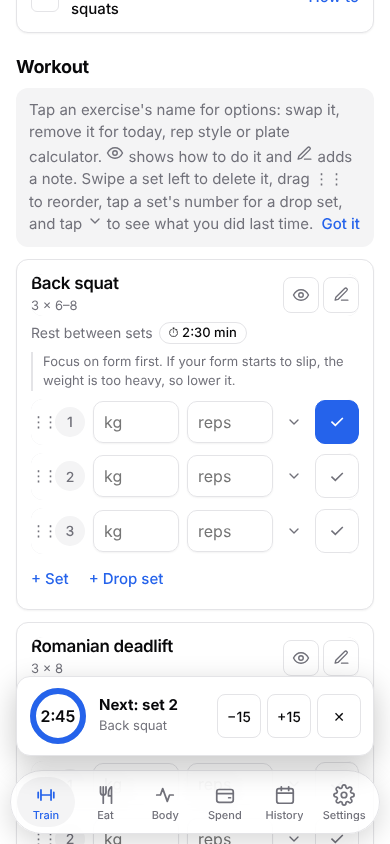
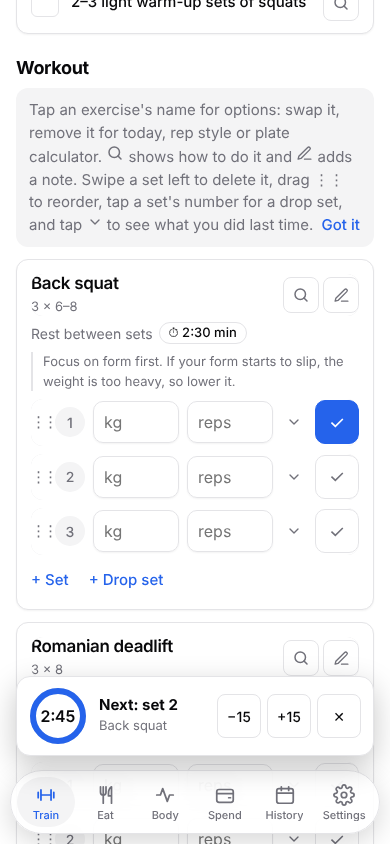
Magnifying glass for all how-to buttons; no how-to for walking
Claude-Session: https://claude.ai/code/session_01PPQnAJQwZUgLDScDXN9x8H

diff --git a/index.html b/index.html
@@ -225,7 +225,7 @@ h1,h2,h3{font-family:inherit;margin:0;line-height:1.05}
 .rtick[aria-pressed="true"]{background:var(--green);border-color:var(--green);color:#fff}
 .rname{flex:1;min-width:0;font-weight:600}
 .rname small{display:block;font-weight:400;color:var(--muted);font-size:14px}
-.rhow{flex:none;padding:6px 0}
+.rhow{flex:none}
 .motions.two{display:grid;grid-template-columns:1fr 1fr;gap:8px}
 .motions figure{margin:0}
 .motions figcaption{text-align:center;font-size:12px;color:var(--muted)}
@@ -1391,14 +1391,15 @@ function routineHtml(kind,items,done){
   let h="";
   for(const g of regions){
     h+=`<p class="lbl rhead">${esc(g.r)}</p><div class="card routine">`;
-    h+=g.list.map(([n,i])=>{const I=sinfo(n),key=kind+i,open=openHow.has(key),has=I.c.length||I.m.length;
-      return `<div class="ritem"><div class="rrow"><button class="rtick" data-act="${kind==="w"?"warm":"stretch"}" data-i="${i}" aria-pressed="${!!done[i]}" aria-label="Mark ${esc(n)} done">✓</button><span class="rname">${esc(n)}${I.hold?`<small>Hold ${esc(I.hold)}</small>`:""}</span>${holdSecs(I.hold)?`<button type="button" class="holdbtn" data-act="hold" data-n="${esc(n)}" aria-label="Start a ${holdSecs(I.hold)} second timer for ${esc(n)}">▶ ${holdSecs(I.hold)} s</button>`:""}${has?`<button class="linkbtn rhow" data-act="rhow" data-k="${key}" aria-expanded="${open}">${open?"Hide":"How to"}</button>`:""}</div>${open?`<div class="howto">${I.m.length?bodyMap(I.m,I.s):""}${I.c.length?`<ol>${I.c.map(c=>`<li>${esc(c)}</li>`).join("")}</ol>`:""}</div>`:""}</div>`;}).join("");
+    h+=g.list.map(([n,i])=>{const I=sinfo(n),key=kind+i,open=openHow.has(key),has=(I.c.length||I.m.length)&&!/walk|light cardio/i.test(n);
+      return `<div class="ritem"><div class="rrow"><button class="rtick" data-act="${kind==="w"?"warm":"stretch"}" data-i="${i}" aria-pressed="${!!done[i]}" aria-label="Mark ${esc(n)} done">✓</button><span class="rname">${esc(n)}${I.hold?`<small>Hold ${esc(I.hold)}</small>`:""}</span>${holdSecs(I.hold)?`<button type="button" class="holdbtn" data-act="hold" data-n="${esc(n)}" aria-label="Start a ${holdSecs(I.hold)} second timer for ${esc(n)}">▶ ${holdSecs(I.hold)} s</button>`:""}${has?`<button class="icob rhow" data-act="rhow" data-k="${key}" aria-expanded="${open}"${open?' aria-pressed="true"':""} aria-label="${open?"Hide":"Show"} how to do ${esc(n)}">${IC.search}</button>`:""}</div>${open?`<div class="howto">${I.m.length?bodyMap(I.m,I.s):""}${I.c.length?`<ol>${I.c.map(c=>`<li>${esc(c)}</li>`).join("")}</ol>`:""}</div>`:""}</div>`;}).join("");
     h+=`</div>`;
   }
   return h;
 }
 // ---------- Exercise helpers: rep style, starting weights, records, keywords ----------
 const IC={
+  search:'<svg viewBox="0 0 24 24" width="18" height="18" fill="none" stroke="currentColor" stroke-width="2" stroke-linecap="round" stroke-linejoin="round" aria-hidden="true"><circle cx="11" cy="11" r="7"/><path d="m20 20-4-4"/></svg>',
   eye:'<svg viewBox="0 0 24 24" width="18" height="18" fill="none" stroke="currentColor" stroke-width="1.9" stroke-linecap="round" stroke-linejoin="round" aria-hidden="true"><path d="M2 12s3.5-7 10-7 10 7 10 7-3.5 7-10 7S2 12 2 12z"/><circle cx="12" cy="12" r="3"/></svg>',
   pen:'<svg viewBox="0 0 24 24" width="17" height="17" fill="none" stroke="currentColor" stroke-width="1.9" stroke-linecap="round" stroke-linejoin="round" aria-hidden="true"><path d="M12 20h9"/><path d="M16.5 3.5a2.1 2.1 0 0 1 3 3L7 19l-4 1 1-4z"/></svg>',
   chev:'<svg viewBox="0 0 24 24" width="16" height="16" fill="none" stroke="currentColor" stroke-width="2" stroke-linecap="round" stroke-linejoin="round" aria-hidden="true"><path d="m6 9 6 6 6-6"/></svg>',
@@ -1466,7 +1467,7 @@ function motionBlock(id){
 function headerHtml(e,ctx,tag){
   const [id,name,sets,target,flag,drop]=e;
   const st=repStyle(id),tg=styledTarget(e),open=openHow.has(id),hasNote=!!(store.settings.notes||{})[id];
-  let h=`<div class="swr" data-sw="ex">${swbg("Swap","Remove today")}<header class="sw exhead">${tag?`<span class="sstag">${tag}</span>`:""}<div class="exttl" data-act="exmenu" role="button" tabindex="0" aria-label="Options for ${esc(name)}"><h3>${esc(name)}</h3><span class="target">${sets} × ${esc(tg)}${drop?" + drop":""}${st&&canStyle(e)?` · ${STYLES[st][0]}`:""}</span></div><span class="exicons"><button type="button" class="icob" data-act="howto" aria-expanded="${open}" aria-label="${open?"Hide":"Show"} how to do ${esc(name)}"${open?' aria-pressed="true"':""}>${IC.eye}</button><button type="button" class="icob${hasNote?" has":""}" data-act="note" aria-label="${hasNote?"Edit your note":"Add a note"} for ${esc(name)}">${IC.pen}</button></span></header></div>`;
+  let h=`<div class="swr" data-sw="ex">${swbg("Swap","Remove today")}<header class="sw exhead">${tag?`<span class="sstag">${tag}</span>`:""}<div class="exttl" data-act="exmenu" role="button" tabindex="0" aria-label="Options for ${esc(name)}"><h3>${esc(name)}</h3><span class="target">${sets} × ${esc(tg)}${drop?" + drop":""}${st&&canStyle(e)?` · ${STYLES[st][0]}`:""}</span></div><span class="exicons"><button type="button" class="icob" data-act="howto" aria-expanded="${open}" aria-label="${open?"Hide":"Show"} how to do ${esc(name)}"${open?' aria-pressed="true"':""}>${IC.search}</button><button type="button" class="icob${hasNote?" has":""}" data-act="note" aria-label="${hasNote?"Edit your note":"Add a note"} for ${esc(name)}">${IC.pen}</button></span></header></div>`;
   if(!ctx.planIds.has(id))h+=`<p class="restline">Logged this day, but no longer in this workout.</p>`;
   const note=(store.settings.notes||{})[id];if(note)h+=`<p class="restline"><b>Note:</b> ${esc(note)}</p>`;
   return h;
@@ -1516,7 +1517,7 @@ function secWarm({k,p,P,v2,day},before){
 function secWork({k,p,P,v2,day}){
   const todayEx=dayExercises(k,p),planIds=new Set(todayEx.map(e=>e[0])),hiddenIds=hiddenExIds(day);let h="";
   if(todayEx.length)h+=`<h2 class="sec-title">Workout</h2>`;
-  if(todayEx.length&&!store.settings.tipCard)h+=`<p class="note tip">Tap an exercise's name for options: swap it, remove it for today, rep style or plate calculator. ${IC.eye} shows how to do it and ${IC.pen} adds a note. Swipe a set left to delete it, drag ⋮⋮ to reorder, tap a set's number for a drop set, and tap ${IC.chev} to see what you did last time. <button class="linkbtn" data-act="tipok2">Got it</button></p>`;
+  if(todayEx.length&&!store.settings.tipCard)h+=`<p class="note tip">Tap an exercise's name for options: swap it, remove it for today, rep style or plate calculator. ${IC.search} shows how to do it and ${IC.pen} adds a note. Swipe a set left to delete it, drag ⋮⋮ to reorder, tap a set's number for a drop set, and tap ${IC.chev} to see what you did last time. <button class="linkbtn" data-act="tipok2">Got it</button></p>`;
   else if(!todayEx.length&&p!=="rest"&&p!=="run"&&v2)h+=`<h2 class="sec-title">Workout</h2><p class="note">No exercises in this workout yet. Tap <b>Edit</b> above to add some.</p>`;
   const extraEx=Object.keys(day.sets||{}).filter(id=>!planIds.has(id)&&!hiddenIds.has(id)&&(day.sets[id]||[]).some(r=>r.d||String(r.r).trim()||String(r.w).trim())).map(libArr);
   const ctx={k,p,day,v2,planIds},list=todayEx.concat(extraEx);
@@ -2771,9 +2772,9 @@ $("panel").addEventListener("click",e=>{if(tab!=="settings")return;const b=e.tar
 // Major.Minor: a new major number for a redesign, a new minor number for each update.
 const APP_VERSION="2.5";
 const CHANGELOG=[
-  {v:"2.5",d:"9 October 2026",t:"Brick logo is back",items:["Back to the logo with two capital B's built from toy bricks, red in front of blue"]},
+  {v:"2.5",d:"9 October 2026",t:"Brick logo is back",items:["Back to the logo with two capital B's built from toy bricks, red in front of blue","The logo in the app has no background","How-to buttons are now a magnifying glass everywhere, including warm-ups and stretches","No more how-to for walking"]},
   {v:"2.4",d:"9 October 2026",t:"Body tab, recipes and help",items:["Progress chart with each weigh-in and a 7-day average. Tap it to see the numbers","Calories burned today and since you started, shown as a range, compared with body fat and food","Your real maintenance, worked out from your weight trend and the food you log","Sets per muscle this week, with the 10–20 set range marked","Strength chart showing your estimated one-rep max over time","Measurements, progress photos (website only, saved on your phone) and dated notes","Steps field removed from the Body tab","Recipes with ingredients and steps, and Log 1 serving today. Creamy garlic herb Cajun chicken is built in","Help rewritten as 21 chapters: using the app and training basics","New logo: a barbell with two capital B's as the plates","This change log"]},
-  {v:"2.3",d:"9 October 2026",t:"Train tab rework",items:["Edit button under the week: reorder or hide page sections, your own warm-ups and stretches, exercises and schedule","Tap an exercise's name for its menu. The eye shows how to do it and the pen adds a note","⌄ on every set shows what you did last time and your best","Rep styles per exercise: Light, Medium or Heavy, with matching reps and rest","Suggested starting weights and a form reminder for New and Some experience","Swap list grouped by muscle, same muscle group first, with nothing cut off","57 more exercises, including calisthenics with Move up progressions","Tap-to-explain keywords like drop set and superset","New record alerts, a workout summary and a plate calculator"]},
+  {v:"2.3",d:"9 October 2026",t:"Train tab rework",items:["Edit button under the week: reorder or hide page sections, your own warm-ups and stretches, exercises and schedule","Tap an exercise's name for its menu. The magnifying glass shows how to do it and the pen adds a note","⌄ on every set shows what you did last time and your best","Rep styles per exercise: Light, Medium or Heavy, with matching reps and rest","Suggested starting weights and a form reminder for New and Some experience","Swap list grouped by muscle, same muscle group first, with nothing cut off","57 more exercises, including calisthenics with Move up progressions","Tap-to-explain keywords like drop set and superset","New record alerts, a workout summary and a plate calculator"]},
   {v:"2.2",d:"9 October 2026",t:"New setup and splits",items:["Setup asks about your gym experience: New, Some or Experienced","Weekly split screen with templates, any day changeable, custom days and Dynamic days you pick on the day","Choose whether workouts start with suggested exercises or empty","Choose how long a split runs. The app asks what to do when it ends","Beginners see a note that their plan is a suggestion they can change","Changing your split no longer changes past days","Shorter tour: 5 slides, one per section"]},
   {v:"2.1",d:"9 October 2026",t:"Body Builder",items:["Renamed to Body Builder","Red and black barbell logo","One-time fresh start for everyone using the website"]},
   {v:"2.0",d:"9 October 2026",t:"New design",items:["Clean new look with the Geist font","Tab bar at the bottom, with Settings as its own tab","Reorder or hide tabs, choose your currency and kg or lb","Background names that match light and dark mode","Protein target fixed: 2.2 g per kg when cutting, and adding body fat no longer lowers it","New users start fresh, with no sample meals or products","Sets can only be swiped left, to delete","The drop set note now sits under the drop set","Restore a backup straight from the setup screen"]},
@@ -2817,7 +2818,7 @@ function guideHtml(){
   <p class="gtitle">Using the app</p>`;
   h+=ch("Getting started",`<p>Setup asks for your details to work out your calories and protein, then your gym experience, then your weekly split. Change any of it later: targets in <b>Body</b>, your split with <b>Edit</b> on the Train tab, and your experience level in <b>Settings → Training</b>.</p><p>Use <kbd>‹</kbd> and <kbd>›</kbd> at the top to move between days, or tap a circle in the week strip. Everything saves as you type.</p>`);
   h+=ch("Train: logging a workout",`<ul><li>Type the weight and reps, then tap <kbd>✓</kbd>. That starts the rest timer.</li><li>Tap <kbd>⌄</kbd> next to a set to see what you did on that set last time, and your best.</li><li><b>+ Set</b> and <b>+ Drop set</b> add rows. Tap a set's number to switch it between a normal set and a drop set. Drag <kbd>⋮⋮</kbd> to reorder.</li><li>Swipe a set left to delete it. Deleted something by mistake? Tap <b>Undo</b>.</li><li>Beat your best and you'll see a <b>New record</b> message. Once you've logged a set, a summary shows your sets, total weight and time.</li></ul>`);
-  h+=ch("Train: exercise options",`<ul><li><b>Tap an exercise's name</b> to swap it (today or every time), remove it for today, open the how-to, add a note, pick a rep style, or use the plate calculator for barbell lifts.</li><li>The <b>eye</b> shows how to do it: the movement, muscles worked and form tips. The <b>pen</b> adds a note, like seat height.</li><li>The swap list is grouped by muscle, with the same muscle group first.</li><li>New and Some experience see a suggested starting weight the first time, and a reminder to focus on form.</li></ul>`);
+  h+=ch("Train: exercise options",`<ul><li><b>Tap an exercise's name</b> to swap it (today or every time), remove it for today, open the how-to, add a note, pick a rep style, or use the plate calculator for barbell lifts.</li><li>The <b>magnifying glass</b> shows how to do it: the movement, muscles worked and form tips. The <b>pen</b> adds a note, like seat height.</li><li>The swap list is grouped by muscle, with the same muscle group first.</li><li>New and Some experience see a suggested starting weight the first time, and a reminder to focus on form.</li></ul>`);
   h+=ch("Train: your plan and layout",`<ul><li><b>Edit</b>, at the top right under the week, opens everything you can change: the order of the sections on the page (so the warm-up can come after), which sections show, your own warm-ups and stretches, the exercises in each workout, and your weekly schedule.</li><li><b>Change your weekly split</b> lets you pick a template, set each day, add custom or Dynamic days, and choose how long the split runs.</li><li>On a <b>Dynamic</b> day you pick which workout to do on the day itself.</li><li><b>Workout for this day</b> swaps just one day.</li></ul>`);
   h+=ch("Rest timer",`<p>Starts by itself when you tick a set, with the right rest for that exercise and rep style. Tap the clock to pause, <b>−15</b>/<b>+15</b> to adjust, <kbd>✕</kbd> to skip. Before a drop set or between exercises in a superset it tells you to keep going. Tap the <b>⏱</b> time on any exercise to set your own. Stretches have a <b>▶</b> hold timer.</p><p>On iPhone the beep can't play while the screen is locked, so keep <b>Keep the screen on</b> switched on in Settings → Rest timer, and check the silent switch.</p>`);
   h+=ch("Eat",`<ul><li>The bar at the top shows calories and protein against your targets.</li><li>Tick what you ate for each meal. Swipe a meal right to edit it, left to remove it.</li><li>The <b>food calculator</b> works out any ingredient by weight. Use the <b>meal builder</b> to combine several and save the result as a meal.</li><li><b>Recipes</b> show ingredients and steps. Tap <b>Log 1 serving today</b> after eating one, or add your own.</li></ul>`);

diff --git a/sw.js b/sw.js
@@ -1,6 +1,6 @@
 // Building Blocks service worker: lets the app open without internet.
 // Bump VERSION whenever index.html changes so phones pick up the update.
-const VERSION = "bb-2.5.2";
+const VERSION = "bb-2.5.3";
 const SHELL = ["./", "./index.html", "./manifest.webmanifest",
   "./icons/icon-192.png", "./icons/icon-512.png", "./icons/apple-touch-icon.png", "./icons/favicon-32.png"];
 
